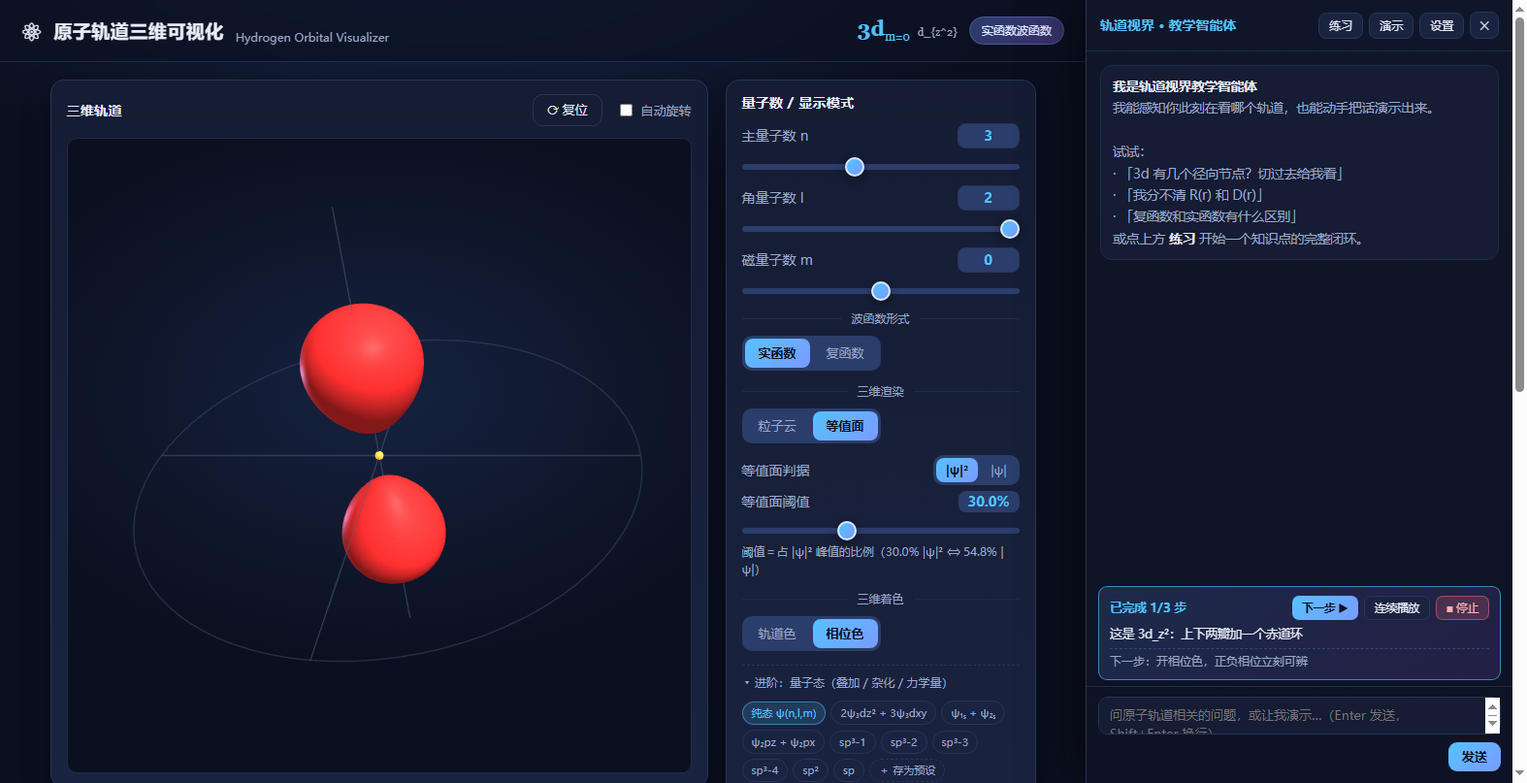
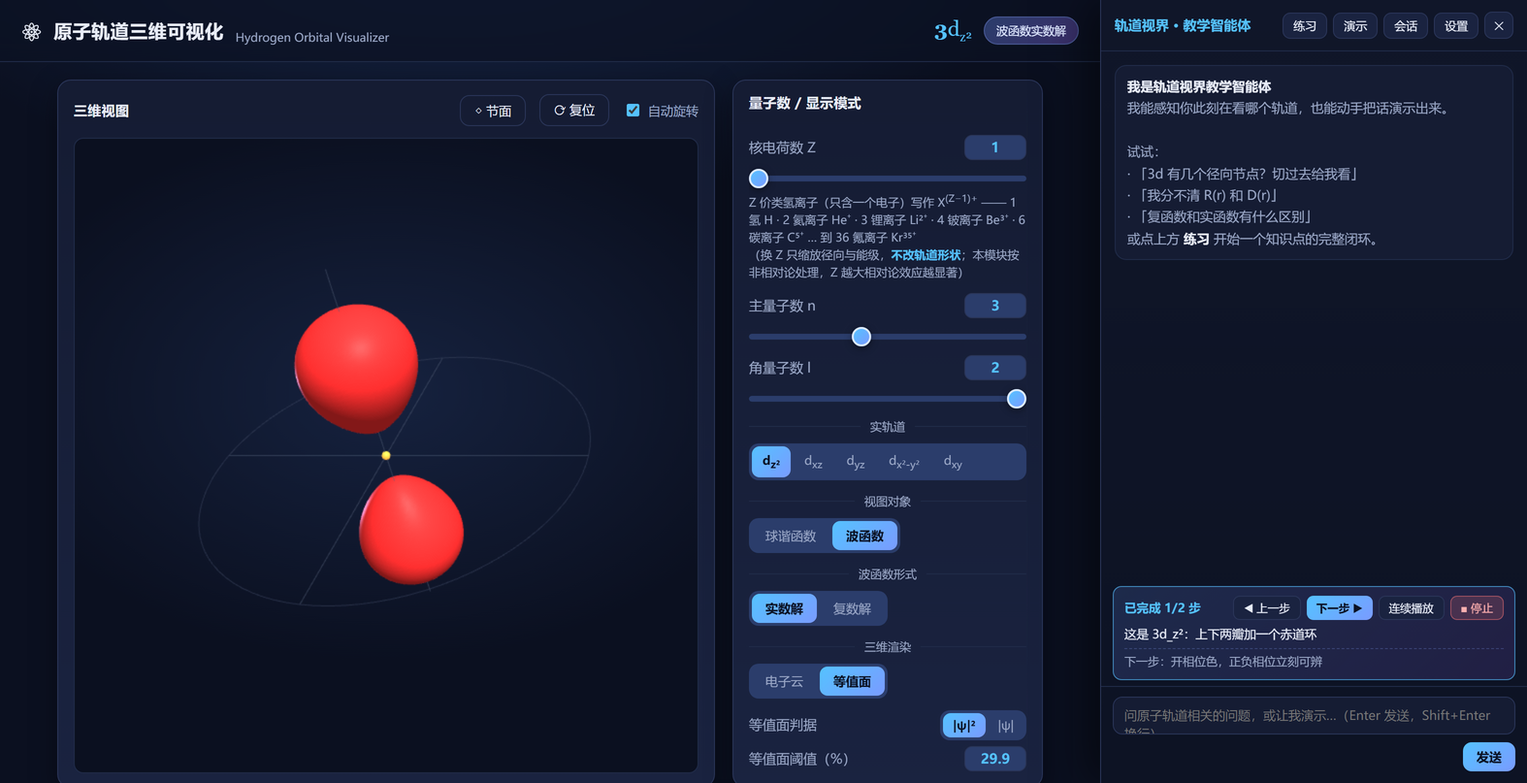
docs: 预览图与两份 README 全面过时 —— 按当前界面重出图、逐条校正文字
四张图是 9-22 / 9-23 的，之后界面改了四十余项，几乎每一处标注都对不上了：
· preview.png      原图没有核电荷数 Z 控件，还写着「实函数 / 复函数」「粒子云」，
                   公式带 ≈ 0.0454（现在一律精确根式），角度图还是单张
                   （现在是 Θ·Φ 两个因子并排 + 相乘）
· isosurface.png   内容不变，但取景按原图 944×529 还原 —— 3D 视图高度 = 视口高 − 152，
                   而相机取景随视口宽高比走，不调视口会截成 944×848 的瘦高条
· complex-phase.png 同一取景；另注意复数解的默认着色已不是彩虹（收进「进阶」后默认纯色）
· agent.png        改截**视口**：原图就是视口大小，截成整页会变成 3148×3284 的长条

两份 README 的过时之处：
· 开篇「氢原子（Z = 1）…程序不提供核电荷数调节」——与现在完全相反，改为类氢、Z 可调 1–36
· 术语：实函数 / 复函数 → 实数解 / 复数解；粒子云 → 电子云；节点面 → 节面
· 动作数「28 个」实测已是 31 —— 改成「三十余个」，不再写死
· 补上本轮与上轮的新事实：
  - Φ 的下标分档（复解 Φ_m / 实解 Φ_{±m}）与组合关系；
  - focusChart 的「提到批首」只在前面是改图动作时才做，换轨道时必须先换轨道；
  - 演示控制条：连播播完后仍可回退、点过「停止」后仍可重播（两处判据都改过）；
  - 演示收藏夹（跨刷新、跨会话的那份持久载体）
· 顺手改掉一处事实错误：根 README 给 3d_z² 写的图注是「含两处径向节点形成的洞」，
  而它的径向节点数是 n − l − 1 = 0 —— 没有洞。原文照抄自另一个轨道。

diff --git a/H5/README.md b/H5/README.md
@@ -1,26 +1,26 @@
 # 原子轨道三维可视化 · Hydrogen Orbital Visualizer
 
-一个**移动端友好、可离线运行**的交互式 H5 工具，用三维图形直观展示**氢原子波函数**（Z = 1；角度部分对类氢离子同样适用，径向部分按 Z = 1 实现，程序不提供核电荷数调节），帮助学生/教育工作者理解抽象的量子力学概念。
+一个**移动端友好、可离线运行**的交互式 H5 工具，用三维图形直观展示**类氢原子波函数**（核电荷数 `Z` 可在 **1–36** 之间调节，H → Kr³⁵⁺；类氢与氢只差一条标度关系 `r → r/Z`、`E ∝ Z²/n²`），帮助学生/教育工作者理解抽象的量子力学概念。
 
 ## ✨ 功能特性
 
-- **量子数控制**：滑块与**数字输入框**双通道调节主量子数 `n`（1–6）、角量子数 `l`、磁量子数 `m`，实时联动（l 上限随 n、m 范围随 l 自动收窄）；输入框会校验类型与范围，非法值标红提示且不改变状态。
+- **量子数控制**：滑块与**数字输入框**双通道调节**核电荷数 `Z`**（1–36）、主量子数 `n`（1–6）、角量子数 `l`，以及**实轨道**逐项选择（实数解档按化学名给按钮 `p_z / p_x / p_y`、`d_z² / d_xz / …`），实时联动（l 上限随 n、m 范围随 l 自动收窄）；输入框会校验类型与范围，非法值标红提示且不改变状态。
 - **三维视图有两个档位**（面板「视图对象」切换）——共用同一个三维窗口与同一套相机/操作（旋转/缩放/平移/自动旋转/复位），但底层是**两套几何**：
-  - **球谐函数**（角度部分 `Y`）：极坐标曲面 `r = |Y|` 或 `|Y|²`，解析形状直接三角化。实函数按 `sign(Y)` 分 ±红/青，复函数按相位彩虹着色。**p_z 画出来就是两个相切的球面**；它只依赖 `l`、`m`、**与 `n` 无关**——切 n 时曲面纹丝不动，这正是"2p_z 与 3p_z 角度分布相同"的可视化证据。
-  - **波函数**（完整 ψ）：按概率密度 `|ψ|²` 实时生成（**默认等值面**，可切粒子云）
-  - **粒子云**：按 `|ψ|²` 重要性采样数万个点，统计上即真实电子分布。
+  - **球谐函数**（角度部分 `Y`）：极坐标曲面 `r = |Y|` 或 `|Y|²`，解析形状直接三角化。**实数解**按 `sign(Y)` 分 ±红/青，**复数解**按相位彩虹着色。**p_z 画出来就是两个相切的球面**；它只依赖 `l`、`m`、**与 `n` 无关**——切 n 时曲面纹丝不动，这正是"2p_z 与 3p_z 角度分布相同"的可视化证据。
+  - **波函数**（完整 ψ）：按概率密度 `|ψ|²` 实时生成（**默认等值面**，可切电子云）
+  - **电子云**：按 `|ψ|²` 重要性采样数万个点，统计上即真实电子分布。
   - **等值面**：在网格上走四面体行进（marching tetrahedra）提取等值面，**判据可切换 `|ψ|` / `|ψ|²`**，阈值可调；经顶点焊接 + Taubin 平滑 + 一致朝外绕向处理，表面光滑。
     > `|ψ| = c` 与 `|ψ|² = c²` 是同一族曲面，故切换判据**改变的是读数的含义而非形状**：同一读数 `f`，按 `|ψ|²` 计为 `f·|ψ|²max`，按 `|ψ|` 计等价于 `f²·|ψ|²max`（`f<1` 时更小）→ 得到**更大**的表面。面板会实时显示两者的换算，如 `30.0% |ψ|² ⟺ 54.8% |ψ|`。
   - 网格范围随阈值自适应（收紧到等值面实际外延，而非波函数渐近尾部），同分辨率下格距可细数倍——这是分辨 p 轨道节面附近两瓣窄缝的关键。
   - 阈值滑块为**对数刻度**、覆盖 `0.3%–80%`（线性刻度下低端拖不到；取对数刻度就要看中点落在哪 —— `0.3%×80%` 的几何平均是 **4.9%**，正好落在常用轨道推荐值附近，而原量程 `0.02%–80%` 的中点是 1.26%）；面板按当前轨道给出**推荐阈值**（取最弱一层径向壳峰值的 40%）并可一键采用——各层壳峰值相差悬殊（3p `100/11.9`、4p `100/11.1/4.2`、4s `100/1.8/0.42/0.18`），任何固定默认值都必然在某些轨道上把外层壳整片切掉。下限不压到 0.02% 是因为用不到：实测"看全所有壳层"所需最低阈值是 6s 的 0.04%，而 0.04% 画出来是一团弥散巨球、教学上不如只看内几层；0.3% 已能显出 3s 的三层壳。4s/5s/6s 的推荐值会被下限顶住，此时提示行标注"（已到下限）"。
-  - **三维着色**：粒子云与等值面共用同一套配色 —— **相位色**（实函数 → ±红/青，判据是**完整 ψ 的符号** `sign(R(r)·Y)`，故径向节点处的符号翻转也能看到；复函数 → 彩虹相位缠绕）/ **支壳层色**（按 s/p/d/f 着色，不显示正负）。l=0 时角度函数为常数、正负恒定，相位色无信息，自动置灰。
-- **实函数 / 复函数** 双模式：
-  - 实球谐 → 经典"瓣状"轨道（pz、px、dxy、dz²…）。
-  - 复球谐 → 密度绕 z 轴对称的"环/锥面"，并按相位（arg ψ）彩虹着色。
+  - **三维着色**（收在面板底部的「进阶：三维着色」里）：电子云与等值面共用同一套配色 —— **相位色**（**实数解** → ±红/青，判据是**完整 ψ 的符号** `sign(R(r)·Y)`，故径向节点处的符号翻转也能看到；**复数解** → 彩虹相位缠绕）/ **支壳层色**（按 s/p/d/f 着色，不显示正负）。**默认值随档走**——实数解默认相位色（正负双色本来就是它的物理内容），复数解默认支壳层色（相位彩虹对初学者是额外负担）。l=0 时角度函数为常数、正负恒定，相位色无信息，自动置灰。
+- **波函数实数解 / 复数解** 双模式：
+  - 实数解 → 经典"瓣状"轨道（p_z、p_x、d_xy、d_z²…），**按化学名逐个选**，不出现 `m`。
+  - 复数解 → 密度绕 z 轴对称的"环/锥面"，**按 `m` 选**（`m` 在这里名副其实：它是 `L̂z` 的本征值指标）。
 - **多维2D视图**（手绘 Canvas，无图表依赖）：
   - 径向曲线：`R(r) / R(r)² / D(r)` 多选叠加，各自按峰值归一化。**只有这三个量**：`D(r) ≥ 0` 恒成立，再平方不改变极值点与零点，`D(r)²` 没有独立的物理含义（知识库条目同样只讲这三个，界面与讲解里都不出现它）。
-  - 角度部分的两个因子：把分离变量的第二步 `Y(θ,φ) = Θ(θ)·Φ(φ)` 画出来——**左 Θ、右 Φ、中间一个「×」**，底部给出 `max|Θ| × max|Φ| = max|Y|` 的真实数字（3p_z：`1.225 × 0.399 = 0.489`）。两因子**各自归一化**（`∫|Θ|²sinθdθ = 1`、`∫|Φ|²dφ = 1`），故乘积逐点等于 `Y`，那行数字是恒等式而非示意。Θ 画在 xz 平面（极角自 **+z** 起）、Φ 画在 xy 平面（自 **+x** 起），基准不同故各自标注。复函数档下 `|Φ|` 是常数（**一个圆**），按相位彩虹着色。
-  - 截面密度：`xy / xz / yz` 平面，三种模式 —— **密度着色** / **相位着色** / **无填色等高线**（8 层对数间距、数值标注在线上、白线标出节面 ψ=0）；恰为节点面时提示"本平面为节点面"。
+  - 角度部分的两个因子：把分离变量的第二步 `Y(θ,φ) = Θ(θ)·Φ(φ)` 画出来——**左 Θ、右 Φ、中间一个「×」**，底部给出 `max|Θ| × max|Φ| = max|Y|` 的真实数字（3p_z：`1.225 × 0.399 = 0.489`）。两因子**各自归一化**（`∫|Θ|²sinθdθ = 1`、`∫|Φ|²dφ = 1`），故乘积逐点等于 `Y`，那行数字是恒等式而非示意。Θ 画在 xz 平面（极角自 **+z** 起）、Φ 画在 xy 平面（自 **+x** 起），基准不同故各自标注，并用虚线标出**角节面所在的角度**（`θ=55°`、`φ=…`）。复数解档下 `|Φ|` 是常数（**一个圆**）、下标为 `m`；实数解档标 `Φ_{±m}`，公式区并写出它**由两个复解组合而来**（`Φ_{±m} = (1/√2)(Φ_{+m} + Φ_{−m})`）。着色与三维**共用同一个开关**（选「相位色」才按正负 / 相位取色）。
+  - 截面密度：`xy / xz / yz` 平面，三种模式 —— **密度着色** / **相位着色** / **无填色等高线**（8 层对数间距、数值标注在线上、白线标出节面 ψ=0）；恰为节面时提示"本平面为节面"。
 - **公式展示**：KaTeX 实时渲染当前波函数的数学表达式（代入具体 n/l/m 与归一化系数），且 `P_l^m(cosθ)` **展开为显式多项式**（如 `P_1^1 = -sinθ`）。
 - **交互**：拖拽旋转、滚轮/双指缩放、右键（或 Shift+拖）平移、自动旋转、复位；桌面 / 平板 / 手机响应式自适配。
   - 旋转由**四元数轨道控制器**驱动：偏航绕**相机自身 Y（屏幕竖直）**、俯仰绕**相机自身 X（屏幕水平）**，均为相机局部系四元数相乘，不经过欧拉角，**从原理上避免万向节锁**，且允许自由翻滚（无极点限位）。
@@ -58,14 +58,15 @@ H5/
 ├── js/
 │   ├── math.js         # 纯 JS 物理/数学引擎
 │   ├── layout.js       # 视口自适应：算三维画布尺寸，并让右侧面板与之等高
-│   ├── render3d.js     # Three.js：粒子云 + 等值面 + 角度曲面
+│   ├── render3d.js     # Three.js：电子云 + 等值面 + 角度曲面
 │   ├── charts.js       # Canvas 2D：径向 / 截面（含等高线）
 │   ├── chart-overlay.js # 图表浮动窗（演示讲到底部图表时放大到眼前）
 │   ├── formula.js      # KaTeX 公式与 P 多项式展开
 │   ├── main.js         # 主控制器：UI 绑定、状态、节流
 │   └── agent/          # 教学智能体（感知 / 受控动作 / 出题 / 错因诊断）
 │       ├── agent-core.js           # ReAct 对话循环 + 系统提示
-│       ├── scene-bridge.js         # 受控动作词汇表 + 演示记录
+│       ├── scene-bridge.js         # 受控动作词汇表 + 演示记录 + 重播
+│       ├── demo-favorites.js       # 演示收藏夹（只存本机，跨刷新 / 跨会话）
 │       ├── tool-registry.js        # 工具契约（查 / 演 / 教 / 评）
 │       ├── perception-snapshot.js  # 感知层：视图快照 + 交互痕迹 + 演示状态
 │       ├── conv-store.js           # 对话存储：分支树 / 多会话 / 持久化
@@ -81,10 +82,10 @@ H5/
 
 右下角悬浮球打开侧边抽屉。它不是聊天框：**能感知你此刻在看哪个轨道，也能动手把话演示出来**。
 
-- **唯一的"手"是受控动作词汇表**（28 个动作，每个绑定一个知识点）。模型输出不可信，所有改动都要过类型/范围校验、夹紧与限流；它拿不到任何直接操作 DOM / 渲染器的口子。
+- **唯一的"手"是受控动作词汇表**（三十余个动作，每个绑定一个知识点）。模型输出不可信，所有改动都要过类型/范围校验、夹紧与限流；它拿不到任何直接操作 DOM / 渲染器的口子。
 - **数值一律程序算**。节点数、峰值半径、能级、期望值全部走 `math.js` / `observables.js` 的确定性求值，模型只组织语言，结构上消除数值幻觉。
 - **演示排成分镜队列**：入队 + 立即返回，走一步停下等使用者点「下一步」（也可连播 / 中途「⏸ 逐步」就地刹住 / 退回去重看）。每步执行前存一份完整状态快照，「上一步」据此精确还原。
-- **演示可重播、可整改、可引用**：每条演示是一份带编号的记录（见下表"演示记录"一行）。动作气泡每行有「引用」，写入可寻址的 `演示 #N 的第 M 步`，学生提整改意见时不必复述"那个演示的第三步是哪个"。
+- **演示可重播、可整改、可引用、可收藏**：每条演示是一份带编号的记录（见下表"演示记录"一行）。动作气泡每行有「引用」，写入可寻址的 `演示 #N 的第 M 步`，学生提整改意见时不必复述"那个演示的第三步是哪个"；气泡末尾另有「☆ 收藏」——把**步骤清单**存进本机 `localStorage`，跨刷新、跨会话（记录本身是易失的，收藏才是持久的载体），在「会话」页里点一下即可重播。
 - **讲到页面底部的图表时自动弹浮窗**，讲完自动收起（浮窗非模态、靠右停靠，不遮挡三维视图）。
 - **对话可以整理**：分支树（编辑提问即分叉，分叉处有可点的分支切换片）、多会话、复制原文、重答、另起分支；刷新后回到原来的位置。
 - **教学闭环**：出题（双通道出题引擎 + 自校验）、错因诊断（先给"可视化诊断动作"揭示错误根源，而不是直接报答案）、费曼式复述评估、掌握度追踪与推荐、主动服务。
@@ -95,7 +96,7 @@ H5/
 - 玻尔半径 `a₀ = 1`（长度以 a₀ 为单位）；球坐标 `(r, θ, φ)`，θ 为与 z 轴的极角（**z 为量化轴**，三维中竖直）。
 - 波函数 `ψ_{n,l,m} = R_{n,l}(r) · Y_{l,m}(θ, φ)`，已归一化（`∫|ψ|²dV = 1`）。
 - **径向**：`R_{n,l}` 含广义拉盖尔多项式 `L_{n-l-1}^{2l+1}`；`D(r) = r²R(r)²` 为径向分布函数。
-- **球谐**：复模式 `Y_l^m = N·P_l^{|m|}(cosθ)·e^{imφ}`（含 Condon–Shortley 相因子）；实模式由复球谐组合得到 cos/sin(mφ) 型实轨道。
+- **球谐**：复模式 `Y_l^m = N·P_l^{|m|}(cosθ)·e^{imφ}`（**含** Condon–Shortley 相因子 `(-1)^m`）；实模式由复球谐组合得到 cos/sin(mφ) 型实轨道，而**组合系数恰好把该相因子约掉**，所以实解的 Θ 不带它 —— 这两档若混用，`Y = Θ·Φ` 的逐点恒等式就会差一个 `(-1)^{|m|}`。Φ 的下标据此分档：复解 `Φ_m = (1/√(2π))·e^{imφ}`；实解 `Φ_{±m} = (1/√2)(Φ_{+m} + Φ_{−m}) = (1/√π)cos(mφ)`（sin 型同理，系数为 `1/(i√2)`）—— 实解不是"另一个量子数的解"，而是 ±m 两个复解的线性组合，下标与组合关系都写在公式区里。
 - 数学均为纯 JS 递推实现（拉盖尔/勒让德/球谐、复数运算），n≤6 时阶乘不越界、float64 精确，故无需 NumPy/Pyodide（后者 ~15MB、移动端首屏慢）。
 
 ## ⚙ 关键技术决策
@@ -113,7 +114,7 @@ H5/
 | 演示预设可增删（存 localStorage） | 内置预设表达不了"不等性杂化"这类系数不等的组合。智能体现场构造的示意系数对话一过就没了，存成预设后学生可一键复现、反复对照——从"一次回答"变成"留在工具里的教具" |
 | 演示记录**独立于播放队列**存在 | 演示原先只活在队列里，而下一次 `applySceneActions` 一进来就清空队列 —— "刚播完的那条""前几轮对话里那条"在数据结构上直接消失，既重播不了也整改不了（实测：整改工具对**每一步**都报"只能修改尚未执行的步骤"，因为播完后待执行下标等于总步数）。改为 `demoId → 完整步骤清单` 单独记一份，队列只是它的一次放映；刷新后由**对话历史**重建（每次工具调用的参数与回执就是全部信息），不需要额外持久化。演示编号必须与现有记录比对后再取（用递增计数器会在刷新后撞号，把新步骤追加进旧记录 —— 实测一条 8 步的演示变成 16 步） |
 | 演示整改区分「就地改」与「整份重载」 | 演示正暂停、要改的是**后面还没播**的步骤 → 就地改，学生不必重看已看过的（也保住「上一步」的快照链）；演示**已经播完**或要改的是**已经看过**的步骤 → 取出完整清单、改一处、整份重放并**快进到改动点停下**（快进段照常执行、照常存快照，只是不留停顿——跳过执行会让到达改动点时的画面是错的）。两条路都不能少：前者是"接着讲"，后者是"回头改" |
-| `focusChart` 由程序提到批首 | 实测同一句提问，模型两次给出相反的 `focusChart` / `showRadial` 顺序；排在图变化之后时学生"听着讲图、图却在变、浮窗还没开"。顺序不能寄希望于模型每次都排对，就在提交动作前用代码规范化（`target:'none'` 的收窗动作排除，否则会打乱脚本里"收窗 + 落参考球"的顺序） |
+| `focusChart` 由程序提到批首（**换轨道时除外**） | 实测同一句提问，模型两次给出相反的 `focusChart` / `showRadial` 顺序；排在图变化之后时学生"听着讲图、图却在变、浮窗还没开"。顺序不能寄希望于模型每次都排对，就在提交动作前用代码规范化（`target:'none'` 的收窗动作排除，否则会打乱脚本里"收窗 + 落参考球"的顺序）。**但"提到批首"只在它前面确实是"改这两张图"的动作时才做**：若同批还要换轨道，浮窗放大的是**当前**那张图，先放大就会让学生看到上一个轨道的图 —— 这种情形要求"先换轨道、再 `focusChart`"，写进智能体的硬性约定（程序无从判断模型的意图，代劳不了） |
 | `manual` 是"这一次调用"的属性，不是全局开关 | `applySequence({auto:true})` 原先直接写 `manual=false` 且不恢复，界面上又没有按钮能改回来 —— 跑过一次内置演示后，之后所有演示都只能连播。改为 `try/finally` 保存恢复（`runQueue` 里任何一条提前 return 都会跳过普通语句），并补上「⏸ 逐步」出口 |
 | 停留判据是 `!manual`，`paced` 一律传 `true` | 曾经手动入队时传 `paced=false`（"手动模式不需要 pacing"读起来完全说得通），但它是在**循环开始时**定死的：学生中途点「连续播放」后，剩下的步骤会**一个停顿都没有地瞬间播完**（实测 0.6 秒内 5 步全过）。停留条件本来就只在 `!manual` 时生效，所以 `paced` 不该由入队时的模式决定 |
 | 面板高度从三维卡片**单向**推导 | 面板内容比三维视图高时会把整行栅格撑高、把下面的公式与图表往下推，而 3D 画布高度是按"窗口可见高度"算死的，右侧便多出一大截空白。改为量出三维卡片高度下发 `--panel-h`。**单向是防自激的关键**：`.viewer-card` 带 `align-self: start`，不会被同一行更高的面板拉伸，所以"面板 → 行高 → 三维卡片"这条回路在结构上不存在。单列布局（≤1024px）下移除该变量 |
@@ -127,7 +128,7 @@ H5/
 
 - **新增渲染/视图**：在对应模块（`render3d.js` / `charts.js`）加函数，并在 `main.js` 的 `updateViewer` / `updateCharts` 中调用。
 - **调整颜色**：改 `math.js` 的 `SUBSHELL_COLOR`（s/p/d/f/g）；相位映射改 `phaseColor`。
-- **量子数上限**：`index.html` 的 `nSlider` `max` 与 `main.js` 的 `maxL` 上限（5）联动。
+- **量子数与核电荷数上限**：`index.html` 的 `nSlider` `max`（6）与 `main.js` 的 `maxL`（5）联动；`zSlider` 的 `max`（36）与 `scene-bridge.js` 里 `validate` 的 Z 范围联动 —— 改上限时这两组要各自一起改，否则会变成"界面能拖到、动作却被拒"（本轮 Z 从 6 放宽到 36 时就踩过：控件放开了、动作层还卡在旧范围）。
 - **性能**：粒子数滑块控制点数；等值面网格分辨率在 `main.js` 按设备取 `isMobile ? 46 : 68`。
 
 ## ⚠ 已知取舍

diff --git a/README.md b/README.md
@@ -1,6 +1,6 @@
 # 原子轨道三维可视化 · Hydrogen Orbital Visualizer
 
-> 用三维图形直观展示**氢原子波函数**（Z = 1）的交互式教学工具，帮助学生与教育工作者理解抽象的量子力学概念。角向部分对类氢离子同样适用；径向部分按 Z = 1 实现，程序不提供核电荷数调节。
+> 用三维图形直观展示**类氢原子波函数**的交互式教学工具，帮助学生与教育工作者理解抽象的量子力学概念。核电荷数 `Z` 可在 **1–36** 之间调节（H → Kr³⁵⁺）——类氢与氢之间只差一条标度关系（`r → r/Z`、`E ∝ Z²/n²`），所以换 `Z` 只缩放径向尺度与能级，**角向部分与 `Z` 完全无关**。
 
 ## 🔗 链接
 
@@ -17,56 +17,56 @@
 
 ## ✨ 功能特性
 
-**量子数实时联动**：滑块与**数字输入框**双通道调节主量子数 `n`（1–6）、角量子数 `l`、磁量子数 `m`，`l` 上限随 `n`、`m` 范围随 `l` 自动收窄；输入框校验类型与范围，非法值标红且不改变状态。
+**量子数实时联动**：滑块与**数字输入框**双通道调节**核电荷数 `Z`**（1–36）、主量子数 `n`（1–6）、角量子数 `l`，以及**实轨道**逐项选择（实数解档按化学名给按钮：`p_z / p_x / p_y`、`d_z² / d_xz / …`，直到 `l = 5` 的 11 个直角坐标多项式）；`l` 上限随 `n`、`m` 范围随 `l` 自动收窄；输入框校验类型与范围，非法值标红且不改变状态。
 
 **三维视图有两个档位**（面板「视图对象」切换）——两者共用同一个三维窗口、同一套相机与操作（旋转 / 缩放 / 平移 / 自动旋转 / 复位），但底层是**两套几何**：
 
 | 档位 | 画什么 | 说明 |
 |---|---|---|
-| **球谐函数**（角度部分） | 极坐标曲面 `r = \|Y\|` 或 `\|Y\|²` | 解析形状直接三角化。实函数按 `sign(Y)` 分 ±红/青，复函数按相位彩虹着色。**p_z 画出来就是两个相切的球面**——正是教材原话，这里能当场演示；它只依赖 `l`、`m`、**与 `n` 无关**，切 n 时曲面纹丝不动（这正是"2p_z 与 3p_z 角度分布相同"的可视化证据） |
-| **波函数**（完整 ψ） | `\|ψ\|²` 的**等值面**（默认）或**粒子云** | 见下表 |
+| **球谐函数**（角度部分） | 极坐标曲面 `r = \|Y\|` 或 `\|Y\|²` | 解析形状直接三角化。**实数解**按 `sign(Y)` 分 ±红/青，**复数解**按相位彩虹着色。**p_z 画出来就是两个相切的球面**，这里能当场演示；它只依赖 `l`、`m`、**与 `n` 无关**，切 n 时曲面纹丝不动（这正是"2p_z 与 3p_z 角度分布相同"的可视化证据） |
+| **波函数**（完整 ψ） | `\|ψ\|²` 的**等值面**（默认）或**电子云** | 见下表 |
 
 | 方式 | 说明 |
 |---|---|
-| **粒子云** | 按 `\|ψ\|²` 重要性采样数万个点，统计上即真实电子分布 |
+| **电子云** | 按 `\|ψ\|²` 重要性采样数万个点，统计上即真实电子分布 |
 | **等值面** | 在网格上以*四面体行进*提取等值面，**判据可切换 `\|ψ\|` / `\|ψ\|²`**，阈值可调 |
 
 > **关于 `|ψ|` 与 `|ψ|²`**：`|ψ| = c` 与 `|ψ|² = c²` 是同一族曲面，故切换判据改变的是**读数的含义**而非形状——同一读数 `f`，按 `|ψ|²` 计为 `f·|ψ|²max`，按 `|ψ|` 计等价于 `f²·|ψ|²max`（`f<1` 时更小），因而得到**更大**的表面。面板实时显示换算，如 `30.0% |ψ|² ⟺ 54.8% |ψ|`。
 
 > **阈值范围与推荐值**：阈值滑块用**对数刻度**覆盖 `0.3%–80%`——取对数刻度就要看**中点落在哪**，`0.3%×80%` 的几何平均是 **4.9%**，正好落在 3p/4p/4d 这些常用轨道推荐值的左右（原量程 `0.02%–80%` 的中点是 1.26%，等于把滑块正中间浪费在了几乎没人用的量级上）。下限也不再压到 0.02%：实测各轨道"看全所有壳层"所需的最低阈值是 6s 的 0.04%，而 0.04% 画出来是一团弥散的巨球、教学上反而不如只看内几层；0.3% 已能显出 **3s 的三层壳**。面板会按当前轨道给出**推荐阈值**（取该轨道最弱一层径向壳峰值的 40%）并提供一键采用——因为各层壳的峰值相差悬殊（3p `100/11.9`、4p `100/11.1/4.2`、5d `100/17.4/8.1`、4s `100/1.8/0.42/0.18`），任何一个固定默认值都必然在某些轨道上把外层壳整片切掉；4s/5s/6s 的推荐值会被下限顶住，此时提示行明确标注"（已到下限）"，不把一个被夹住的数字当成推荐值报给使用者。
 
-两者共用同一套**三维着色**：**相位色**（实函数 → ±红/青，判据是**完整 ψ 的符号** `sign(R(r)·Y)`，故径向节点处的符号翻转也能看到；复函数 → 彩虹相位）或**支壳层色**（按 s/p/d/f 着色，不显示正负）。s 轨道（l=0）的角向函数是常数、正负恒定，相位色无信息，此时该选项自动置灰。三维、球谐曲面、截面三处的相位配色**统一为同一套**（共用同一个 `phaseColor`）。
+两者共用同一套**三维着色**（收在面板底部的「进阶：三维着色」里）：**相位色**（**实数解** → ±红/青，判据是**完整 ψ 的符号** `sign(R(r)·Y)`，故径向节点处的符号翻转也能看到；**复数解** → 彩虹相位）或**支壳层色**（按 s/p/d/f 着色，不显示正负）。**默认值随档走**——实数解默认相位色（正负双色本来就是它的物理内容），复数解默认支壳层色，因为相位彩虹对初学者是额外负担。s 轨道（l=0）的角向函数是常数、正负恒定，相位色无信息，此时该选项自动置灰。三维、球谐曲面、截面、以及左下角那张 Θ/Φ 卡，四处的相位配色**统一为同一套**（共用同一个 `phaseColor`）。
 
 **交互**：拖拽旋转、滚轮/双指缩放、右键（或 Shift+拖）平移、自动旋转、复位。旋转由**四元数轨道控制器**驱动——偏航绕**相机自身 Y（屏幕竖直）**、俯仰绕**相机自身 X（屏幕水平）**，全程四元数相乘、相机局部系累积，不经欧拉角，**原理上避免万向节锁**且支持自由翻滚。
 
 <p align="center">
   <img src="docs/isosurface.png" alt="3d_{z^2} 等值面" width="620">
   <br>
-  <em>3d<sub>z²</sub> 等值面（上下双瓣 + 赤道环，含两处径向节点形成的"洞"）</em>
+  <em>3d<sub>z²</sub> 等值面：上下双瓣。它的径向节点数是 <code>n−l−1 = 0</code>（3d 的第一层壳），所以两瓣之间没有"套娃"式的洞；两瓣同色则是因为相位色取的是<strong>完整 ψ</strong> 的符号 <code>sign(R·Y)</code>——只看 Y 会漏掉径向部分的贡献。</em>
 </p>
 
-**实函数 / 复函数双模式**——这是最有教学价值的一点：
+**波函数实数解 / 复数解双模式**——这是最有教学价值的一点：
 
-- **实球谐** → 经典"瓣状"轨道（p<sub>z</sub>、p<sub>x</sub>、d<sub>xy</sub>、d<sub>z²</sub>…）
-- **复球谐** → 密度绕 z 轴对称的"环 / 锥面"，并按相位 `arg ψ` 彩虹着色，直观呈现**相位缠绕**
+- **实数解** → 经典"瓣状"轨道（p<sub>z</sub>、p<sub>x</sub>、d<sub>xy</sub>、d<sub>z²</sub>…），界面上**按化学名逐个选**，不出现 `m`
+- **复数解** → 密度绕 z 轴对称的"环 / 锥面"，**按 `m` 选**（`m` 在这里名副其实：它是 `L̂z` 的本征值指标），可在进阶里开相位色呈现**相位缠绕**
 
 <p align="center">
-  <img src="docs/complex-phase.png" alt="复函数相位着色" width="620">
+  <img src="docs/complex-phase.png" alt="复数解相位着色" width="620">
   <br>
-  <em>复函数 3d (m=2)：赤道环状密度 + 相位沿方位角缠绕两周（arg = 2φ）</em>
+  <em>复数解 3d (m=2)：赤道环状密度 + 相位沿方位角缠绕两周（arg = 2φ）</em>
 </p>
 
 **多维 2D 视图**（纯 Canvas 手绘，无图表库依赖）：
 
 - **径向分布**：`R(r) / R(r)² / D(r)` 多选叠加，各自按峰值归一化。**只有这三个量**——`D(r) ≥ 0` 恒成立，再平方不改变极值点与零点，`D(r)²` 没有任何独立的物理含义，放在图里只会让学生以为漏学了一个量（知识库条目同样只讲这三个，`D(r)²` 既不在界面里、也不在讲解里）。
-- **角度部分的两个因子**：把分离变量的第二步 `Y(θ,φ) = Θ(θ)·Φ(φ)` 画出来——**左 Θ、右 Φ、中间一个「×」**，底部给出 `max|Θ| × max|Φ| = max|Y|` 的真实数字（如 3p_z 的 `1.225 × 0.399 = 0.489`）。两个因子**各自归一化**（`∫|Θ|²sinθdθ = 1`、`∫|Φ|²dφ = 1`），所以乘积逐点等于 `Y`，那行数字不是示意而是可核对的恒等式。Θ 画在 xz 平面（极角自 **+z** 起），Φ 画在 xy 平面（极角自 **+x** 起）——两个基准不同，图上各自标注。复函数档下 `|Φ|` 是常数（**一个圆**，教材所谓"复数解的图像是一个圆圈"），并按相位彩虹着色。
+- **角度部分的两个因子**：把分离变量的第二步 `Y(θ,φ) = Θ(θ)·Φ(φ)` 画出来——**左 Θ、右 Φ、中间一个「×」**，底部给出 `max|Θ| × max|Φ| = max|Y|` 的真实数字（如 3p_z 的 `1.225 × 0.399 = 0.489`）。两个因子**各自归一化**（`∫|Θ|²sinθdθ = 1`、`∫|Φ|²dφ = 1`），所以乘积逐点等于 `Y`，那行数字不是示意而是可核对的恒等式。Θ 画在 xz 平面（极角自 **+z** 起），Φ 画在 xy 平面（极角自 **+x** 起）——两个基准不同，图上各自标注，并用虚线标出**角节面所在的角度**（`θ=55°`、`φ=…`）。复数解档下 `|Φ|` 是常数（**一个圆**），下标是 `m`；实数解档标 `Φ_{±m}`，公式区并写出它**由两个复解组合而来**（`Φ_{±m} = (1/√2)(Φ_{+m} + Φ_{−m})`）——实解不是"另一个量子数的解"，这一点在公式上直接就看得见。这张卡的着色与三维**共用同一个开关**（选「相位色」才按正负 / 相位取色）。
 - **截面密度**：`xy / xz / yz` 平面的三种模式——**密度着色** / **相位着色** / **无填色等高线**（8 层对数间距、标注数值、白线标出**节面** ψ=0）
 
-**量子态：叠加 / 杂化 / 力学量**（收在控制面板底部的「进阶」折叠区，默认收起；面板与三维视图**等高**、内容超出时在面板内部滚动，展开后不会把页面撑长）：
+**量子态：叠加 / 杂化 / 力学量**（收在控制面板底部的「进阶：量子态」折叠区，默认收起；面板与三维视图**等高**、内容超出时在面板内部滚动，展开后会自动把新内容滚进视野、不会把页面撑长）：
 
 - **叠加态** `ψ = Σ cᵢψᵢ`：任意复系数，程序把你给的系数**等比归一化**到 `Σ|cᵢ|² = 1`（本程序的基组是同一中心的原子轨道、彼此正交归一，故归一化条件就是这一条；一般式要写成 `Σᵢⱼ cᵢ*cⱼSᵢⱼ = 1`）。核心教学点是**干涉项**——`|ψ|²` 并不等于各分量概率相加，组合态因此会出现单本征态没有的"斜向瓣"。
 - **`|cᵢ|²` 该怎么念**：它是**投影到该分量**的概率；只有当该分量确实是**所测力学量的本征态**时，它才等于"测到那个本征值"的概率。反例就在本程序里：`p_x = (p₊ + p₋)/√2` 测 `L_z` 得到 ±ℏ 各 1/2（成立），但测**能量**时两个分量简并、概率恒为 1，`|cᵢ|²` 与能量概率无关。
-- **它还是不是定态**：各分量 `n` 相同（氢原子能量只由 `n` 决定）⇒ 简并 ⇒ 组合态**仍是定态**，密度是不随时间变化的静态干涉图样；`n` 不同 ⇒ 非定态，密度随时间"呼吸"。动画参数用的是**相对相位** φ 而非真实时间（`ΔE ≈ 10.2 eV` ⇒ `ν ≈ 2.5×10¹⁵ Hz`，不可视化；而干涉图样只依赖相对相位）。
+- **它还是不是定态**：各分量 `n` 相同（类氢能量只由 `n` 与 `Z` 决定，`E = −13.6 Z²/n²`）⇒ 简并 ⇒ 组合态**仍是定态**，密度是不随时间变化的静态干涉图样；`n` 不同 ⇒ 非定态，密度随时间"呼吸"。动画参数用的是**相对相位** φ 而非真实时间（`ΔE ≈ 10.2 eV` ⇒ `ν ≈ 2.5×10¹⁵ Hz`，不可视化；而干涉图样只依赖相对相位）。
 - **杂化预设**：`sp`（2 个，180°）、`sp²`（3 个，120° 共面）、`sp³`（4 个，109.5° 正四面体）全部给全，每个都标注了对应的波函数表达式。四个 sp³ 的 s 系数恒为 +½、三个 p 取正四面体的四个方向，因此**两两正交**（⟨hᵢ|hⱼ⟩ = 0）——这是"四个等价轨道"这句话的数学内容，逐个点选即可对照。
 - **自定义预设**：`＋ 存为预设` 把当前组合存成面板上的一个按钮，可随时删（内置预设不可删）。
 - **力学量**：`⟨E⟩`、`⟨L²⟩`、`⟨L_z⟩` 与 `L_z` 谱由解析式给出，并直接回答"这个组合是否定态"。
@@ -95,12 +95,12 @@
 
 | 控制 | 作用 |
 |---|---|
-| **◀ 上一步** | 退回上一步**执行之前**的画面，随时重看。每步都存了快照，回退是精确还原（含叠加态系数、参考球/节面高亮这些辅助几何） |
+| **◀ 上一步** | 退回上一步**执行之前**的画面，随时重看。每步都存了快照，回退是精确还原（含叠加态系数、参考球/节面高亮这些辅助几何）。**连播播完之后照样能退回去重看**——判据是"循环是否停在闸门上"，而不是"是否处于手动模式"（后者会把"看完一遍想退回去"误拒，而那时根本不在连播） |
 | **下一步 ▶** | 前进（回到刚退掉的那一步也没问题） |
 | **连续播放** | 一把放完，无需逐步确认 |
 | **⏸ 逐步** | 连播途中**就地刹住**，从下一步起恢复逐步。连播态下「下一步 / 连续播放」本来是收起的，没有这个出口，学生点过一次连播就只能一路看完 |
 | **■ 停止** | 中止当前播放 |
-| **↻ 重新演示** | 全部走完后，从头重播同一条分镜 |
+| **↻ 重新演示** | 从头重播同一条分镜。它取的是**演示记录**而不是播放队列——所以点过「■ 停止」（看一半不看，最常见的结局）之后照样能重播：队列被清空了，记录还在 |
 | **✕ 收起** | 只收起这条控制条（**不**清播放状态），稍后仍能重播 |
 
 演示的**节奏可调**（设置 → 演示节奏：慢 3.0s / 标准 2.4s / 快 1.2s 每步）；默认 2.4 秒，因为旁白是一整句中文，1.2 秒读不完 —— 学生看到的是"画面一直在变、话还没读完"。
@@ -111,7 +111,9 @@
 - **整改**：学生说"第 3 步换个说法"，智能体用 `reviseDemo` 指定 `demo_id` 与步号改那一步，**其余步骤一个都不会少**。已播完的演示也能改 —— 程序会按整改后的完整步骤重播、并**快进到被改的那一步停下**，让学生正好看到"改成了什么样"。
 - **引用**：动作气泡每一行的「引用」按钮会写入可寻址的一句 `【整改演示】演示 #N 的第 M 步（共 K 步）` —— 气泡渲染的是模型**原始**的动作数组，而队列里只有校验通过的部分，两者会错位；对应关系由工具回执里的 `perAction` 给出，所以引用是准的、刷新后也准。
 
-**讲到页面底部的图表时自动弹浮窗**：径向分布与截面密度在页面底部，讲三维视图时学生看不到它们。演示里出现图表相关动作时，程序会把那张图放大到**浮窗**里（非模态、靠右停靠，不遮挡三维），讲完自动收起。浮窗内可继续缩放/平移截面图。顺序由程序保证：同批动作里 `focusChart` 会被提到最前 —— 否则会出现"听着讲图、图却在变、浮窗还没开"（实测模型两次给出的顺序正好相反）。
+**收藏：把一条讲得好的演示留到下次**。上面那份"记录"是**易失**的——刷新即散（靠对话历史重建），历史被裁剪或换了会话就找不回来。所以另给一个显式入口：动作气泡上的「☆ 收藏」把该演示的**步骤清单**存进本机 `localStorage`（不上传，跨刷新、跨会话）。收藏在「会话」页里列出，点一下即按**当前**视图重新执行那份清单——存的是步骤、不是截图，所以过一阵子回放仍然是对的（截图会过时）。它也进了「清除本机全部数据」的白名单。收藏与否刻意**不做成动作**：哪条演示值得反复看是人的判断，模型猜不出来，也不该替他决定。
+
+**讲到页面底部的图表时自动弹浮窗**：径向分布与截面密度在页面底部，讲三维视图时学生看不到它们。演示里出现图表相关动作时，程序会把那张图放大到**浮窗**里（非模态、靠右停靠，不遮挡三维），讲完自动收起。浮窗内可继续缩放/平移截面图。顺序上做了两道保障：① 同批动作里若 `focusChart` 前面还有**改这两张图**的动作，程序会把它提到最前 —— 否则会出现"听着讲图、图却在变、浮窗还没开"（实测模型两次给出的顺序正好相反）；② 但若同批还要**换轨道**，必须**先换轨道、再 `focusChart`** —— 浮窗放大的是"当前"那张图，轨道没换就放大，学生先看到的会是**上一个轨道**的图，与旁白对不上（实测踩过：讲"看一下 f 轨道"，第一步却放大了他自己刚才看的那个）。这一条不由程序代劳（程序无从判断模型的意图），而是写进智能体的硬性约定。
 
 **为什么不容易胡说**：
 
@@ -166,7 +168,7 @@ atom-orbit/
     ├── js/
     │   ├── math.js         # 纯 JS 物理/数学引擎
     │   ├── layout.js       # 视口自适应：算三维画布尺寸，并让右侧面板与之等高
-    │   ├── render3d.js     # Three.js：粒子云 + 等值面 + 角度曲面
+    │   ├── render3d.js     # Three.js：电子云 + 等值面 + 角度曲面
     │   ├── charts.js       # Canvas 2D：径向 / 截面（含等高线）
     │   ├── chart-overlay.js # 图表浮动窗（演示讲到底部图表时放大到眼前）
     │   ├── formula.js      # KaTeX 公式与 P 多项式展开
